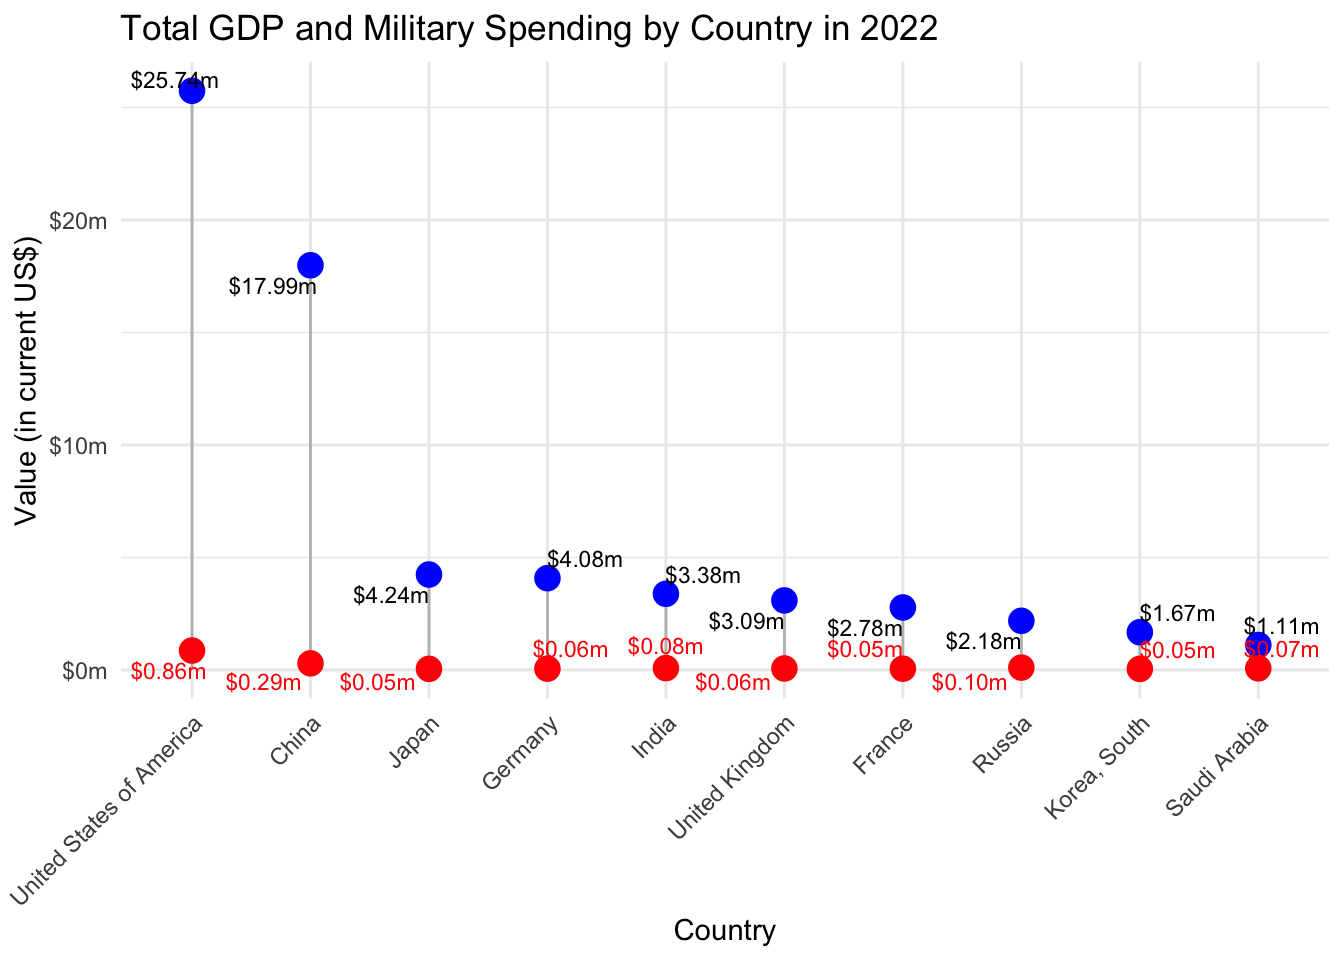
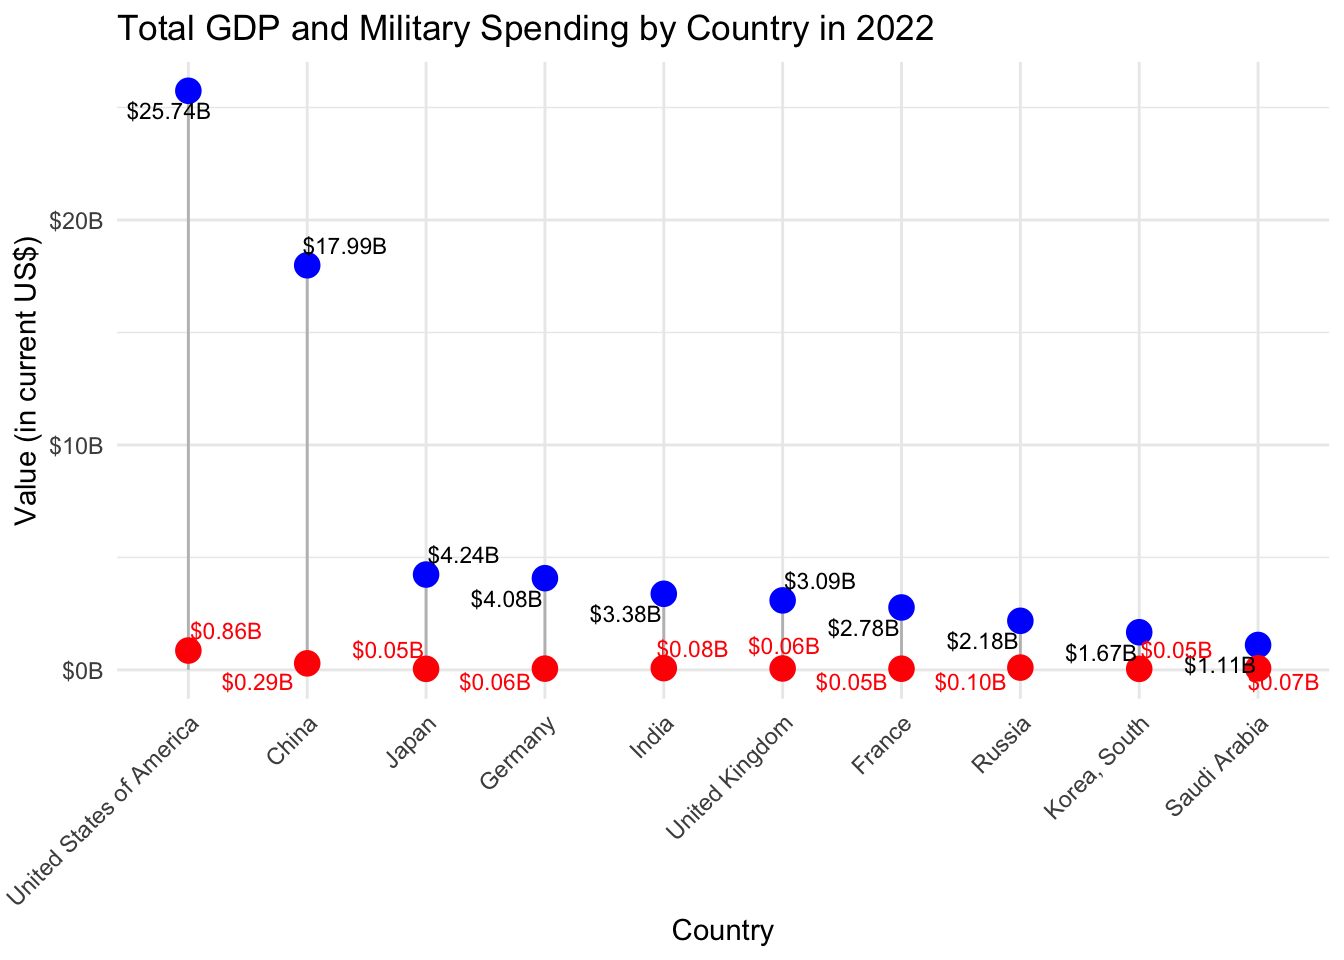
changed currency symbol

diff --git a/pre-processing.html b/pre-processing.html
@@ -270,9 +270,9 @@ pre > code.sourceCode > span > a:first-child::before { text-decoration: underlin
 <span id="cb7-3"><a href="#cb7-3" aria-hidden="true" tabindex="-1"></a>  <span class="fu">geom_segment</span>(<span class="fu">aes</span>(<span class="at">x =</span> Country, <span class="at">xend =</span> Country, <span class="at">y =</span> <span class="dv">0</span>, <span class="at">yend =</span> Total_GDP), <span class="at">color =</span> <span class="st">"grey"</span>) <span class="sc">+</span></span>
 <span id="cb7-4"><a href="#cb7-4" aria-hidden="true" tabindex="-1"></a>  <span class="fu">geom_point</span>(<span class="fu">aes</span>(<span class="at">y =</span> Total_GDP), <span class="at">color =</span> <span class="st">"blue"</span>, <span class="at">size =</span> <span class="dv">4</span>) <span class="sc">+</span></span>
 <span id="cb7-5"><a href="#cb7-5" aria-hidden="true" tabindex="-1"></a>  <span class="fu">geom_point</span>(<span class="fu">aes</span>(<span class="at">y =</span> Current_US), <span class="at">color =</span> <span class="st">"red"</span>, <span class="at">size =</span> <span class="dv">4</span>) <span class="sc">+</span></span>
-<span id="cb7-6"><a href="#cb7-6" aria-hidden="true" tabindex="-1"></a>  <span class="fu">geom_text_repel</span>(<span class="fu">aes</span>(<span class="at">y =</span> Total_GDP, <span class="at">label =</span> <span class="fu">dollar</span>(Total_GDP <span class="sc">/</span> <span class="fl">1e6</span>, <span class="at">suffix =</span> <span class="st">"m"</span>)), <span class="at">size =</span> <span class="dv">3</span>, <span class="at">nudge_y =</span> <span class="fl">0.1</span>) <span class="sc">+</span></span>
-<span id="cb7-7"><a href="#cb7-7" aria-hidden="true" tabindex="-1"></a>  <span class="fu">geom_text_repel</span>(<span class="fu">aes</span>(<span class="at">y =</span> Current_US, <span class="at">label =</span> <span class="fu">dollar</span>(Current_US <span class="sc">/</span> <span class="fl">1e6</span>, <span class="at">suffix =</span> <span class="st">"m"</span>)), <span class="at">size =</span> <span class="dv">3</span>, <span class="at">nudge_y =</span> <span class="sc">-</span><span class="fl">0.1</span>, <span class="at">color =</span> <span class="st">"red"</span>) <span class="sc">+</span></span>
-<span id="cb7-8"><a href="#cb7-8" aria-hidden="true" tabindex="-1"></a>  <span class="fu">scale_y_continuous</span>(<span class="at">labels =</span> <span class="fu">dollar_format</span>(<span class="at">prefix =</span> <span class="st">"$"</span>, <span class="at">suffix =</span> <span class="st">"m"</span>, <span class="at">scale =</span> <span class="fl">1e-6</span>)) <span class="sc">+</span></span>
+<span id="cb7-6"><a href="#cb7-6" aria-hidden="true" tabindex="-1"></a>  <span class="fu">geom_text_repel</span>(<span class="fu">aes</span>(<span class="at">y =</span> Total_GDP, <span class="at">label =</span> <span class="fu">dollar</span>(Total_GDP <span class="sc">/</span> <span class="fl">1e6</span>, <span class="at">suffix =</span> <span class="st">"B"</span>)), <span class="at">size =</span> <span class="dv">3</span>, <span class="at">nudge_y =</span> <span class="fl">0.1</span>) <span class="sc">+</span></span>
+<span id="cb7-7"><a href="#cb7-7" aria-hidden="true" tabindex="-1"></a>  <span class="fu">geom_text_repel</span>(<span class="fu">aes</span>(<span class="at">y =</span> Current_US, <span class="at">label =</span> <span class="fu">dollar</span>(Current_US <span class="sc">/</span> <span class="fl">1e6</span>, <span class="at">suffix =</span> <span class="st">"B"</span>)), <span class="at">size =</span> <span class="dv">3</span>, <span class="at">nudge_y =</span> <span class="sc">-</span><span class="fl">0.2</span>, <span class="at">color =</span> <span class="st">"red"</span>) <span class="sc">+</span></span>
+<span id="cb7-8"><a href="#cb7-8" aria-hidden="true" tabindex="-1"></a>  <span class="fu">scale_y_continuous</span>(<span class="at">labels =</span> <span class="fu">dollar_format</span>(<span class="at">prefix =</span> <span class="st">"$"</span>, <span class="at">suffix =</span> <span class="st">"B"</span>, <span class="at">scale =</span> <span class="fl">1e-6</span>)) <span class="sc">+</span></span>
 <span id="cb7-9"><a href="#cb7-9" aria-hidden="true" tabindex="-1"></a>  <span class="fu">labs</span>(<span class="at">title =</span> <span class="st">"Total GDP and Military Spending by Country in 2022"</span>,</span>
 <span id="cb7-10"><a href="#cb7-10" aria-hidden="true" tabindex="-1"></a>       <span class="at">x =</span> <span class="st">"Country"</span>, <span class="at">y =</span> <span class="st">"Value (in current US$)"</span>) <span class="sc">+</span></span>
 <span id="cb7-11"><a href="#cb7-11" aria-hidden="true" tabindex="-1"></a>  <span class="fu">theme_minimal</span>() <span class="sc">+</span></span>
